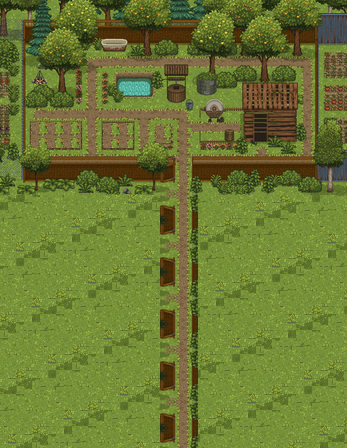
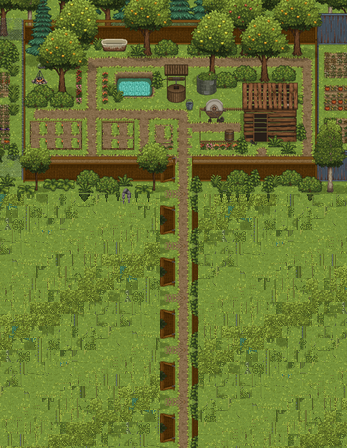
Match the meadow grass and finish the cut-off bushes and rock.

Changed region(s): [[0.0, 0.4062, 0.4611, 1.0], [0.5476, 0.4062, 1.0, 1.0]]

diff --git a/src/game/assets.ts b/src/game/assets.ts
@@ -1,5 +1,5 @@
 /** Bump this when the pictures change so phones and computers drop the old files. */
-export const ART = "20260926h";
+export const ART = "20260926i";
 
 function art(path: string): string {
   return `${path}?v=${ART}`;
